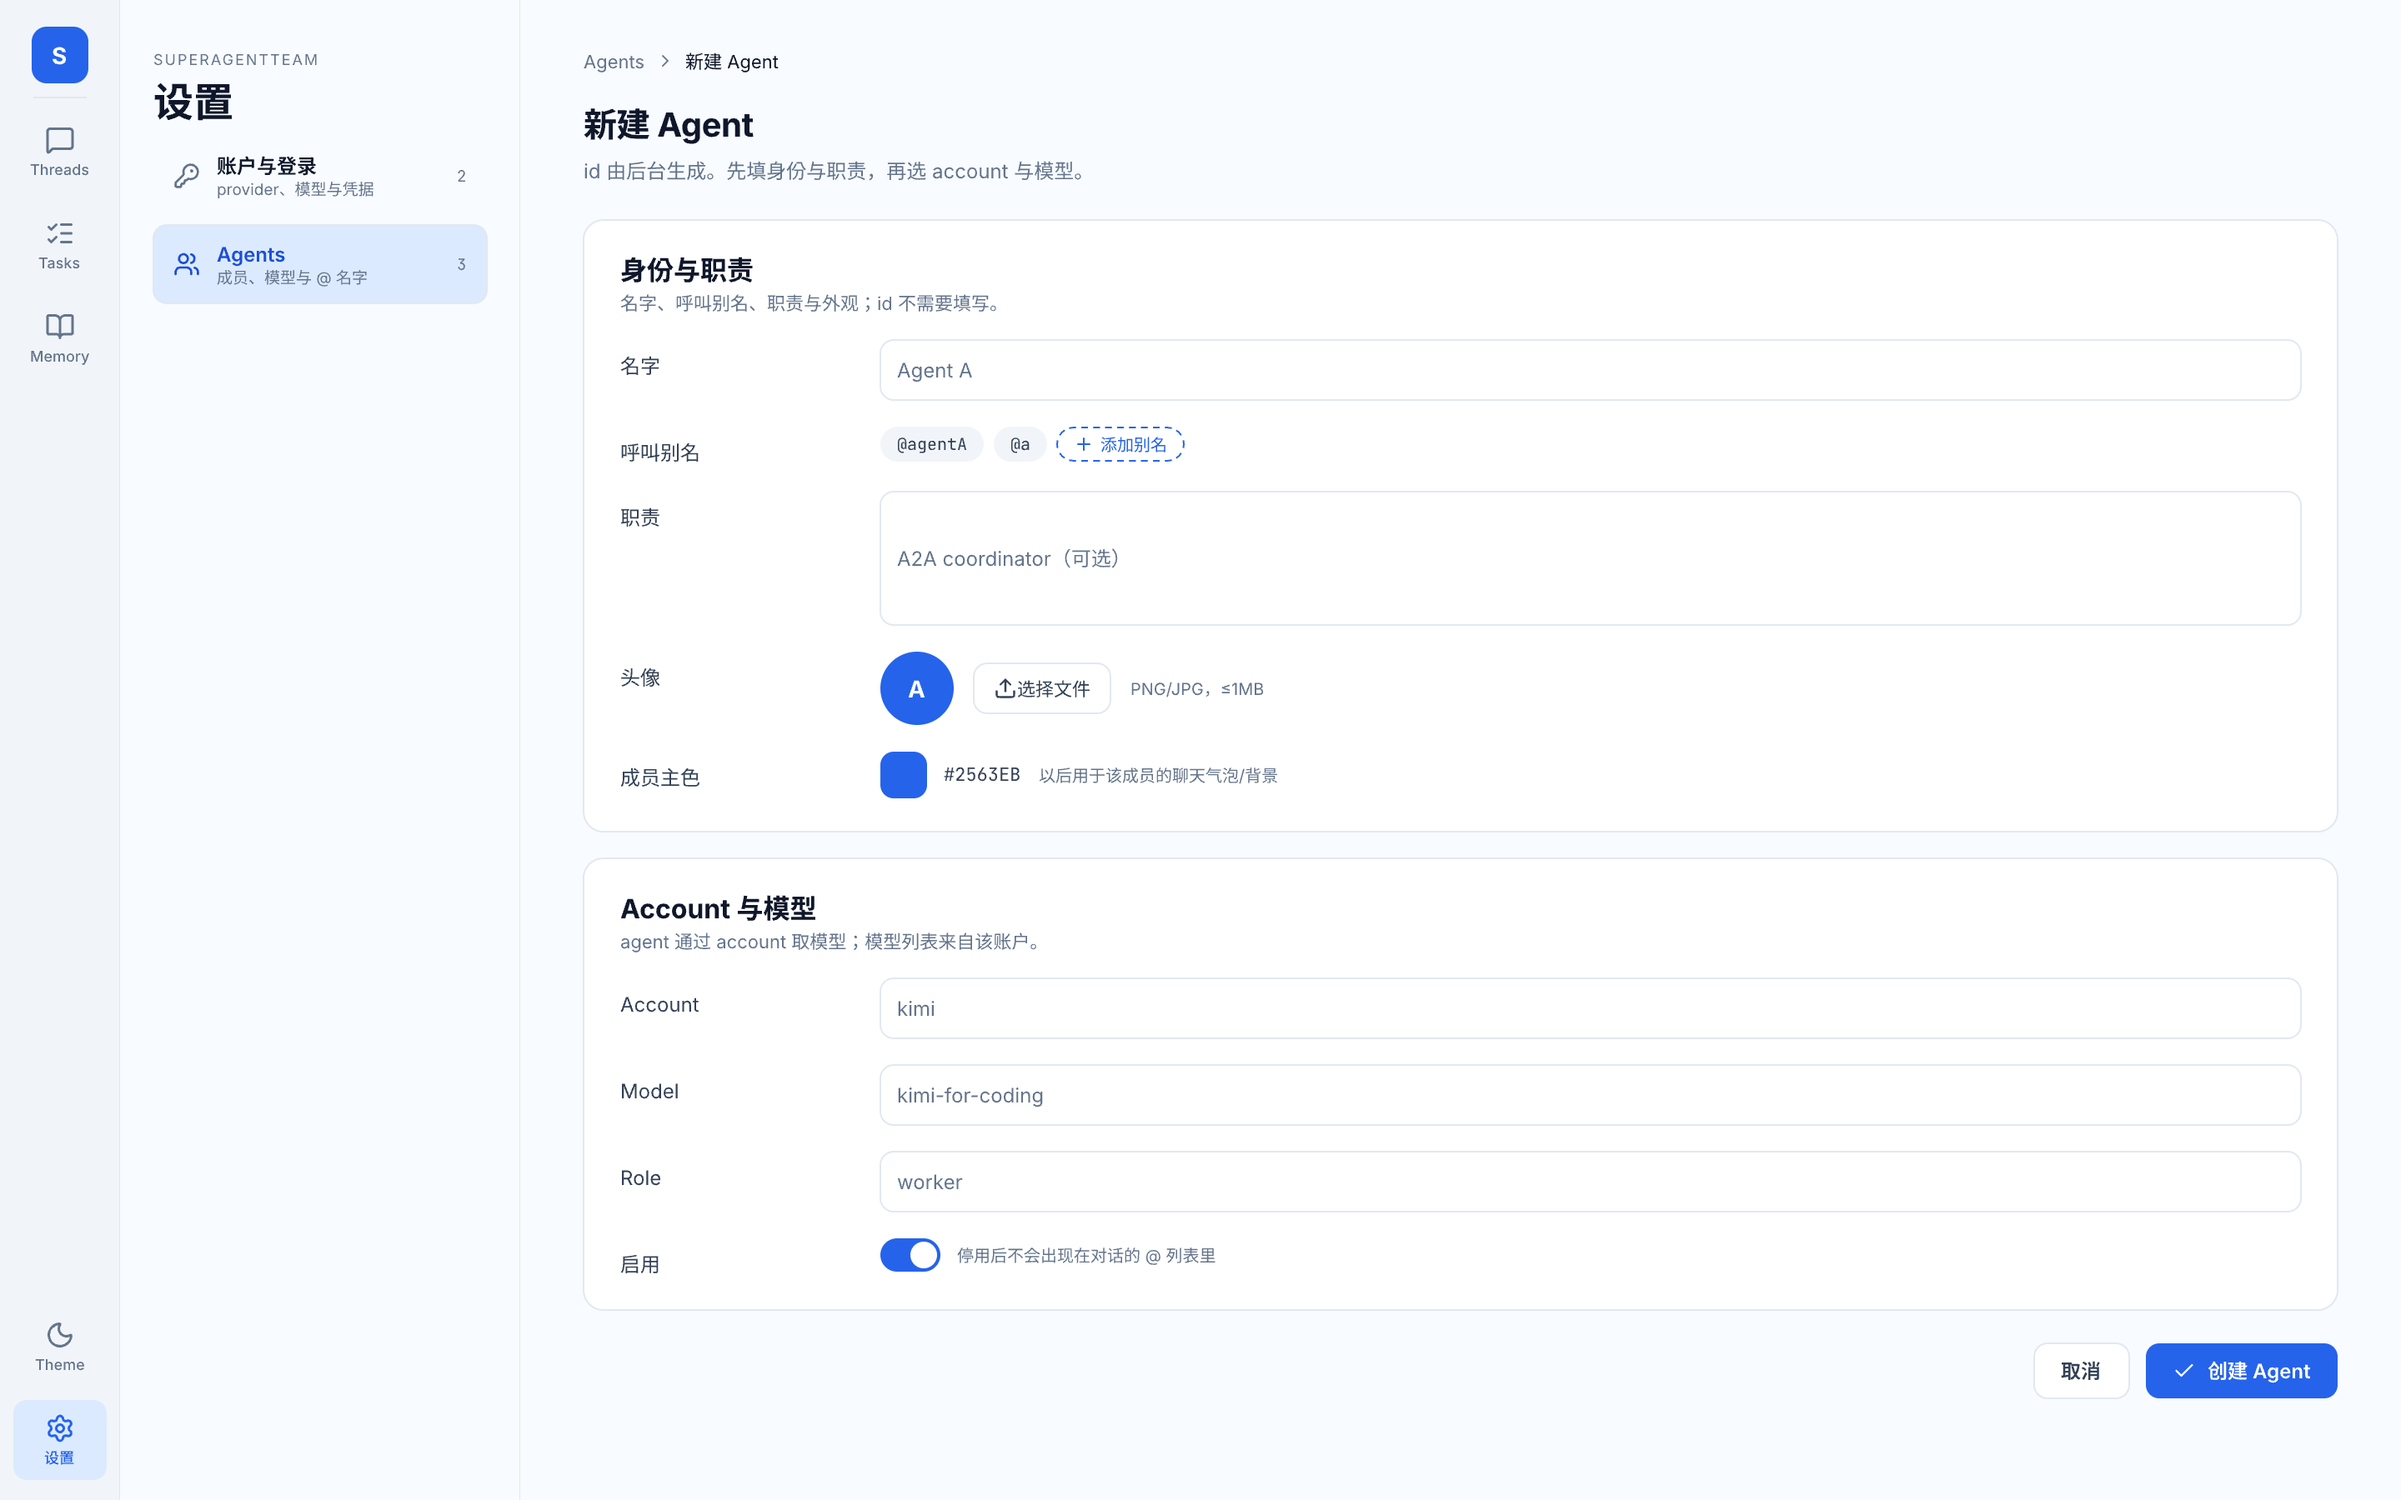
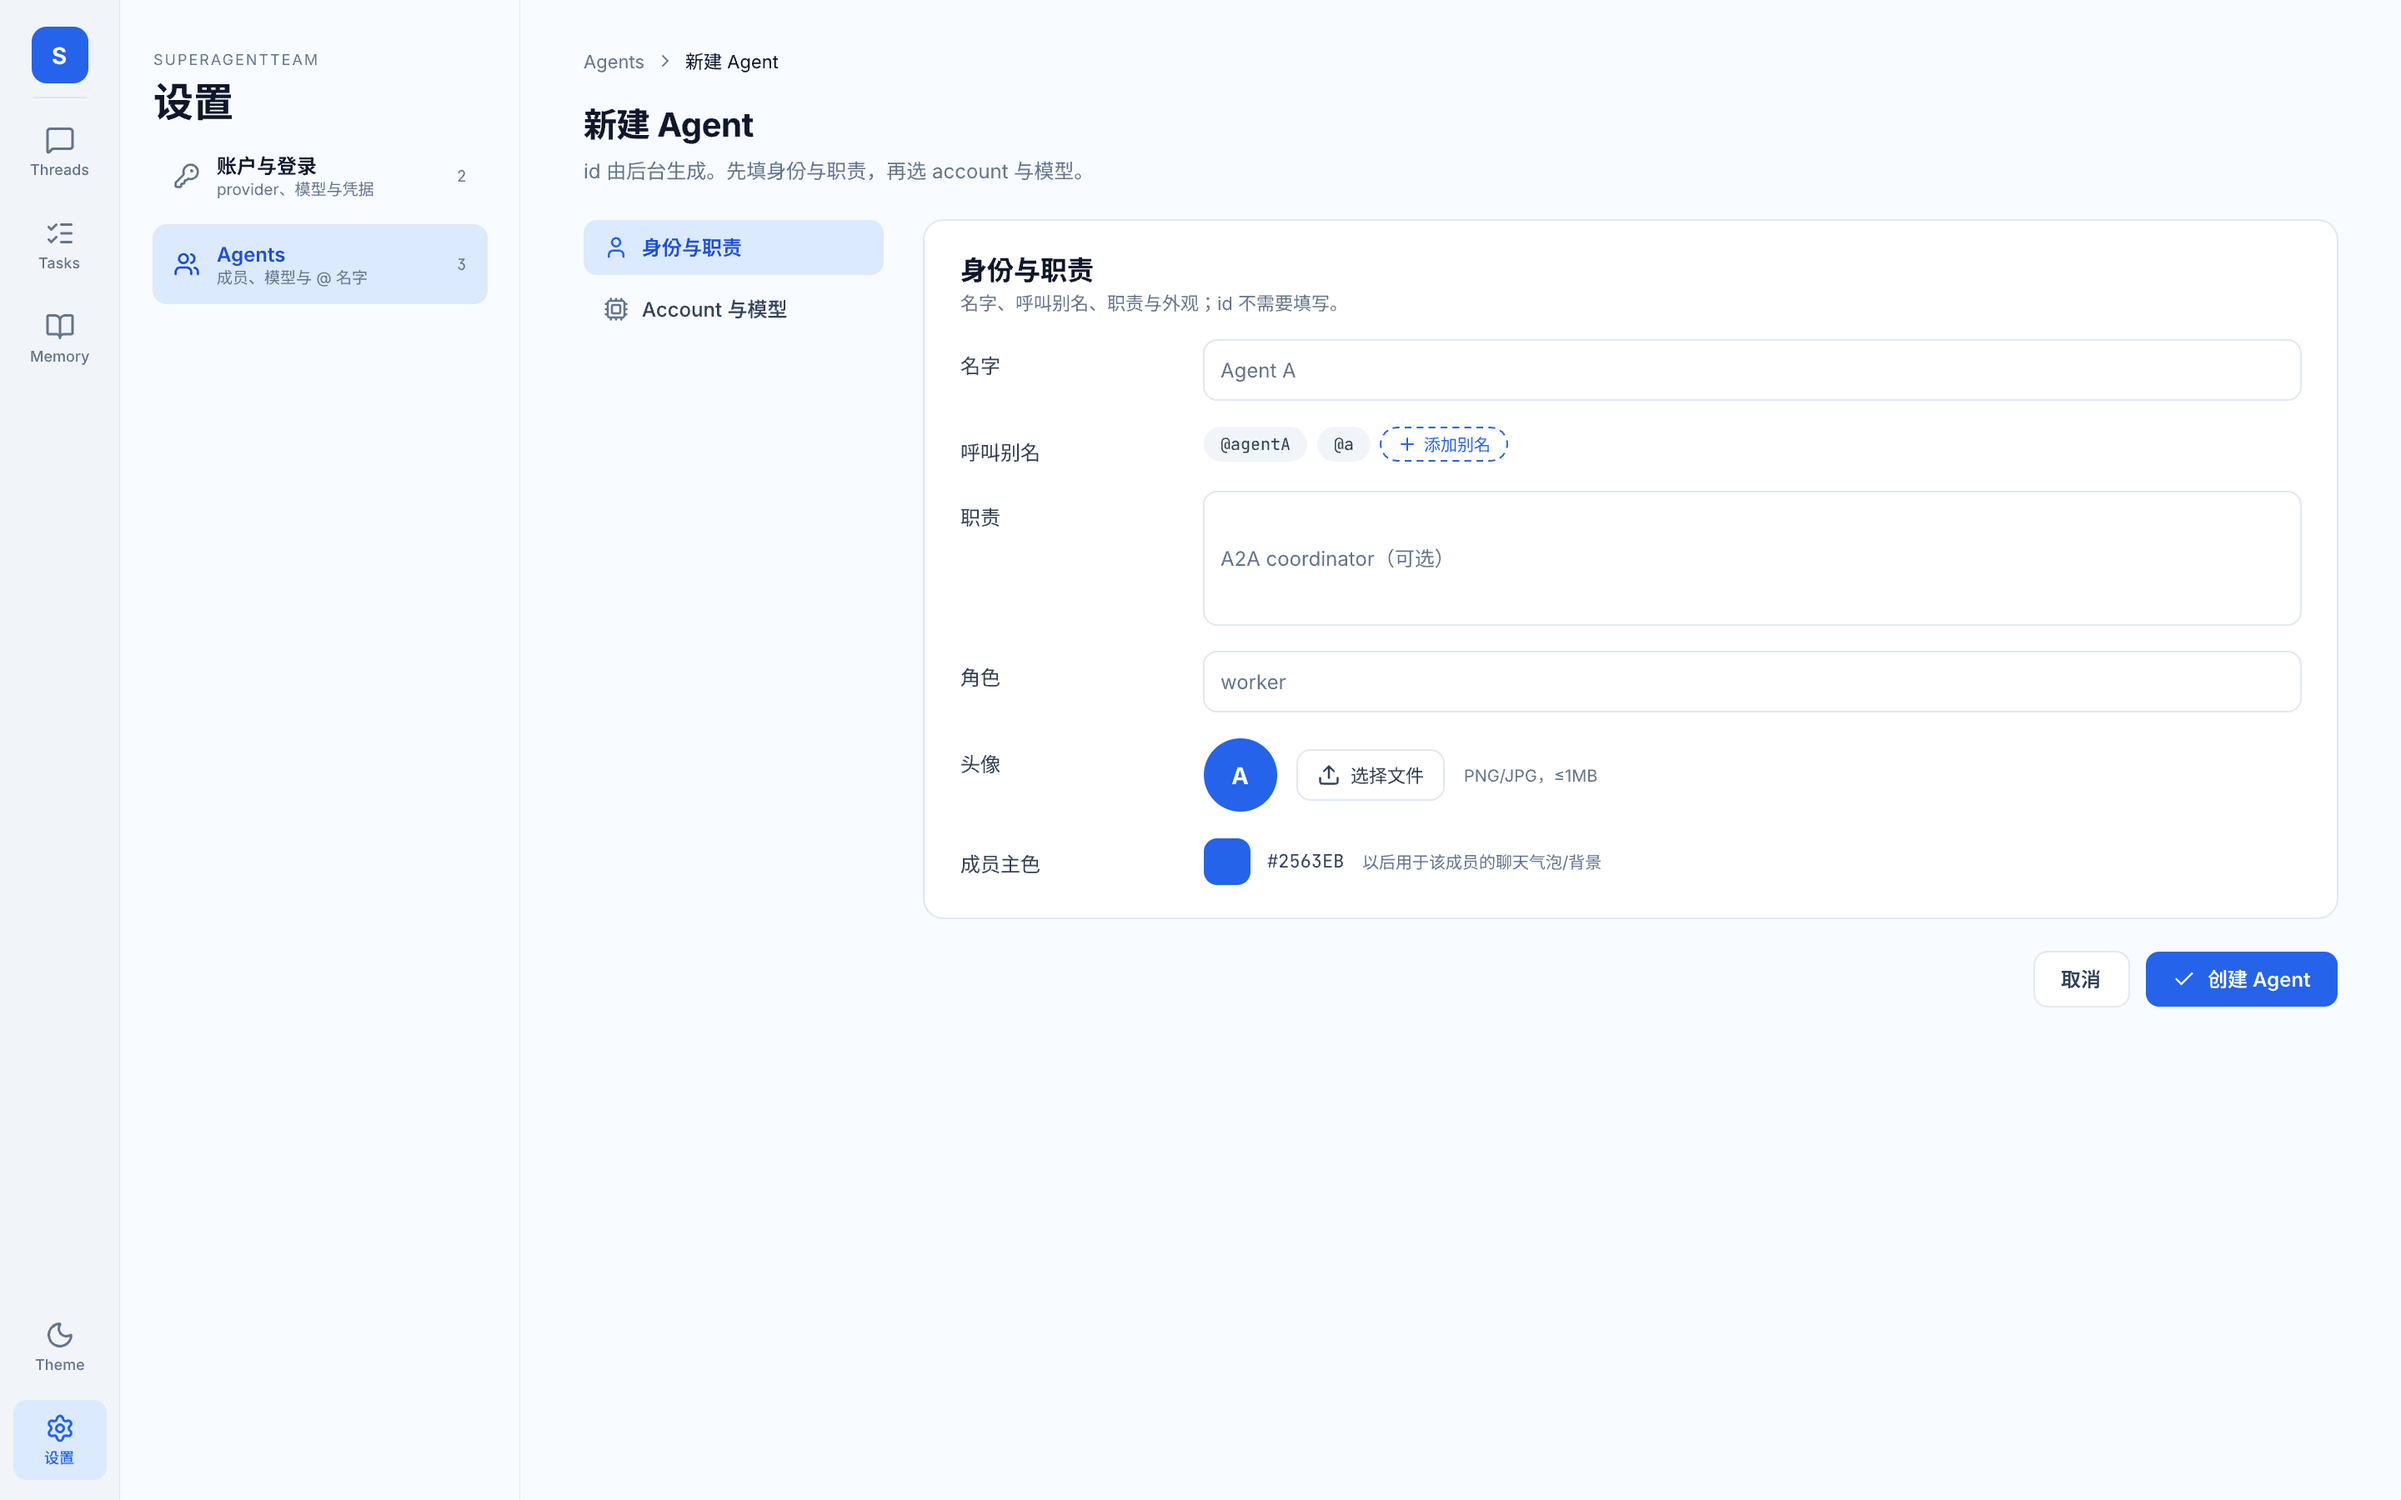
docs(f035): split agent create into identity/account sections
Why: role belongs with identity, and the two sections should follow
Clowder's section-nav layout instead of stacking. Add the second
account/model state so both tabs are designed.

diff --git a/docs/features/F035-settings-hub.md b/docs/features/F035-settings-hub.md
@@ -63,12 +63,14 @@ source_decision: "operator 2026-11-25: add Settings at the bottom of the sidebar
 - `docs/design/F035/settings-accounts.png` — 设置 · 账户与登录
 - `docs/design/F035/settings-agents.png` — 设置 · Agents
 - `docs/design/F035/account-create.png` — 新建账号
-- `docs/design/F035/agent-create.png` — 新建 Agent
+- `docs/design/F035/agent-create.png` — 新建 Agent · 身份与职责（Role 在此段）
+- `docs/design/F035/agent-create-account.png` — 新建 Agent · Account 与模型（分区导航第二态）
 - 结构统一为：NavRail + 设置子导航（图标/说明/计数）+ 内容；设置与 threads 平级。
 - Pencil 源文件 `docs/design/F035/F035-settings.pen`（画布已建，待 operator 保存后入库）。
 - 2026-11-25（operator）：侧边栏移除 Agents 入口（NavRail 与 ThreadSidebar 均不再放 Agents），Agents 管理只在设置页；设计稿四屏同步去掉 rail 的 Agents。
 - 2026-11-25（operator design feedback v2）：
   - 新建账号：移除 `ref` 字段（标识由系统生成）；Models 改为逐个添加的 chip + “添加 model”；删除表单分隔横线。
   - 新建 Agent：参考 Clowder 的“身份与职责 → 模型与工具”信息层级（配色仍用本产品 token）；id 不再手填（后台生成）；身份段含名字/呼叫别名/职责/头像/成员主色；第二段为 Account/Model/Role/启用。
+  - 2026-11-25（operator v3）：Role 归入身份与职责；两段改为 Clowder 式左侧分区导航 + 单区内容（不再平铺），并补第二态设计图 `agent-create-account.png`。
 
 [宪宪/deepseek-flash🐾]
